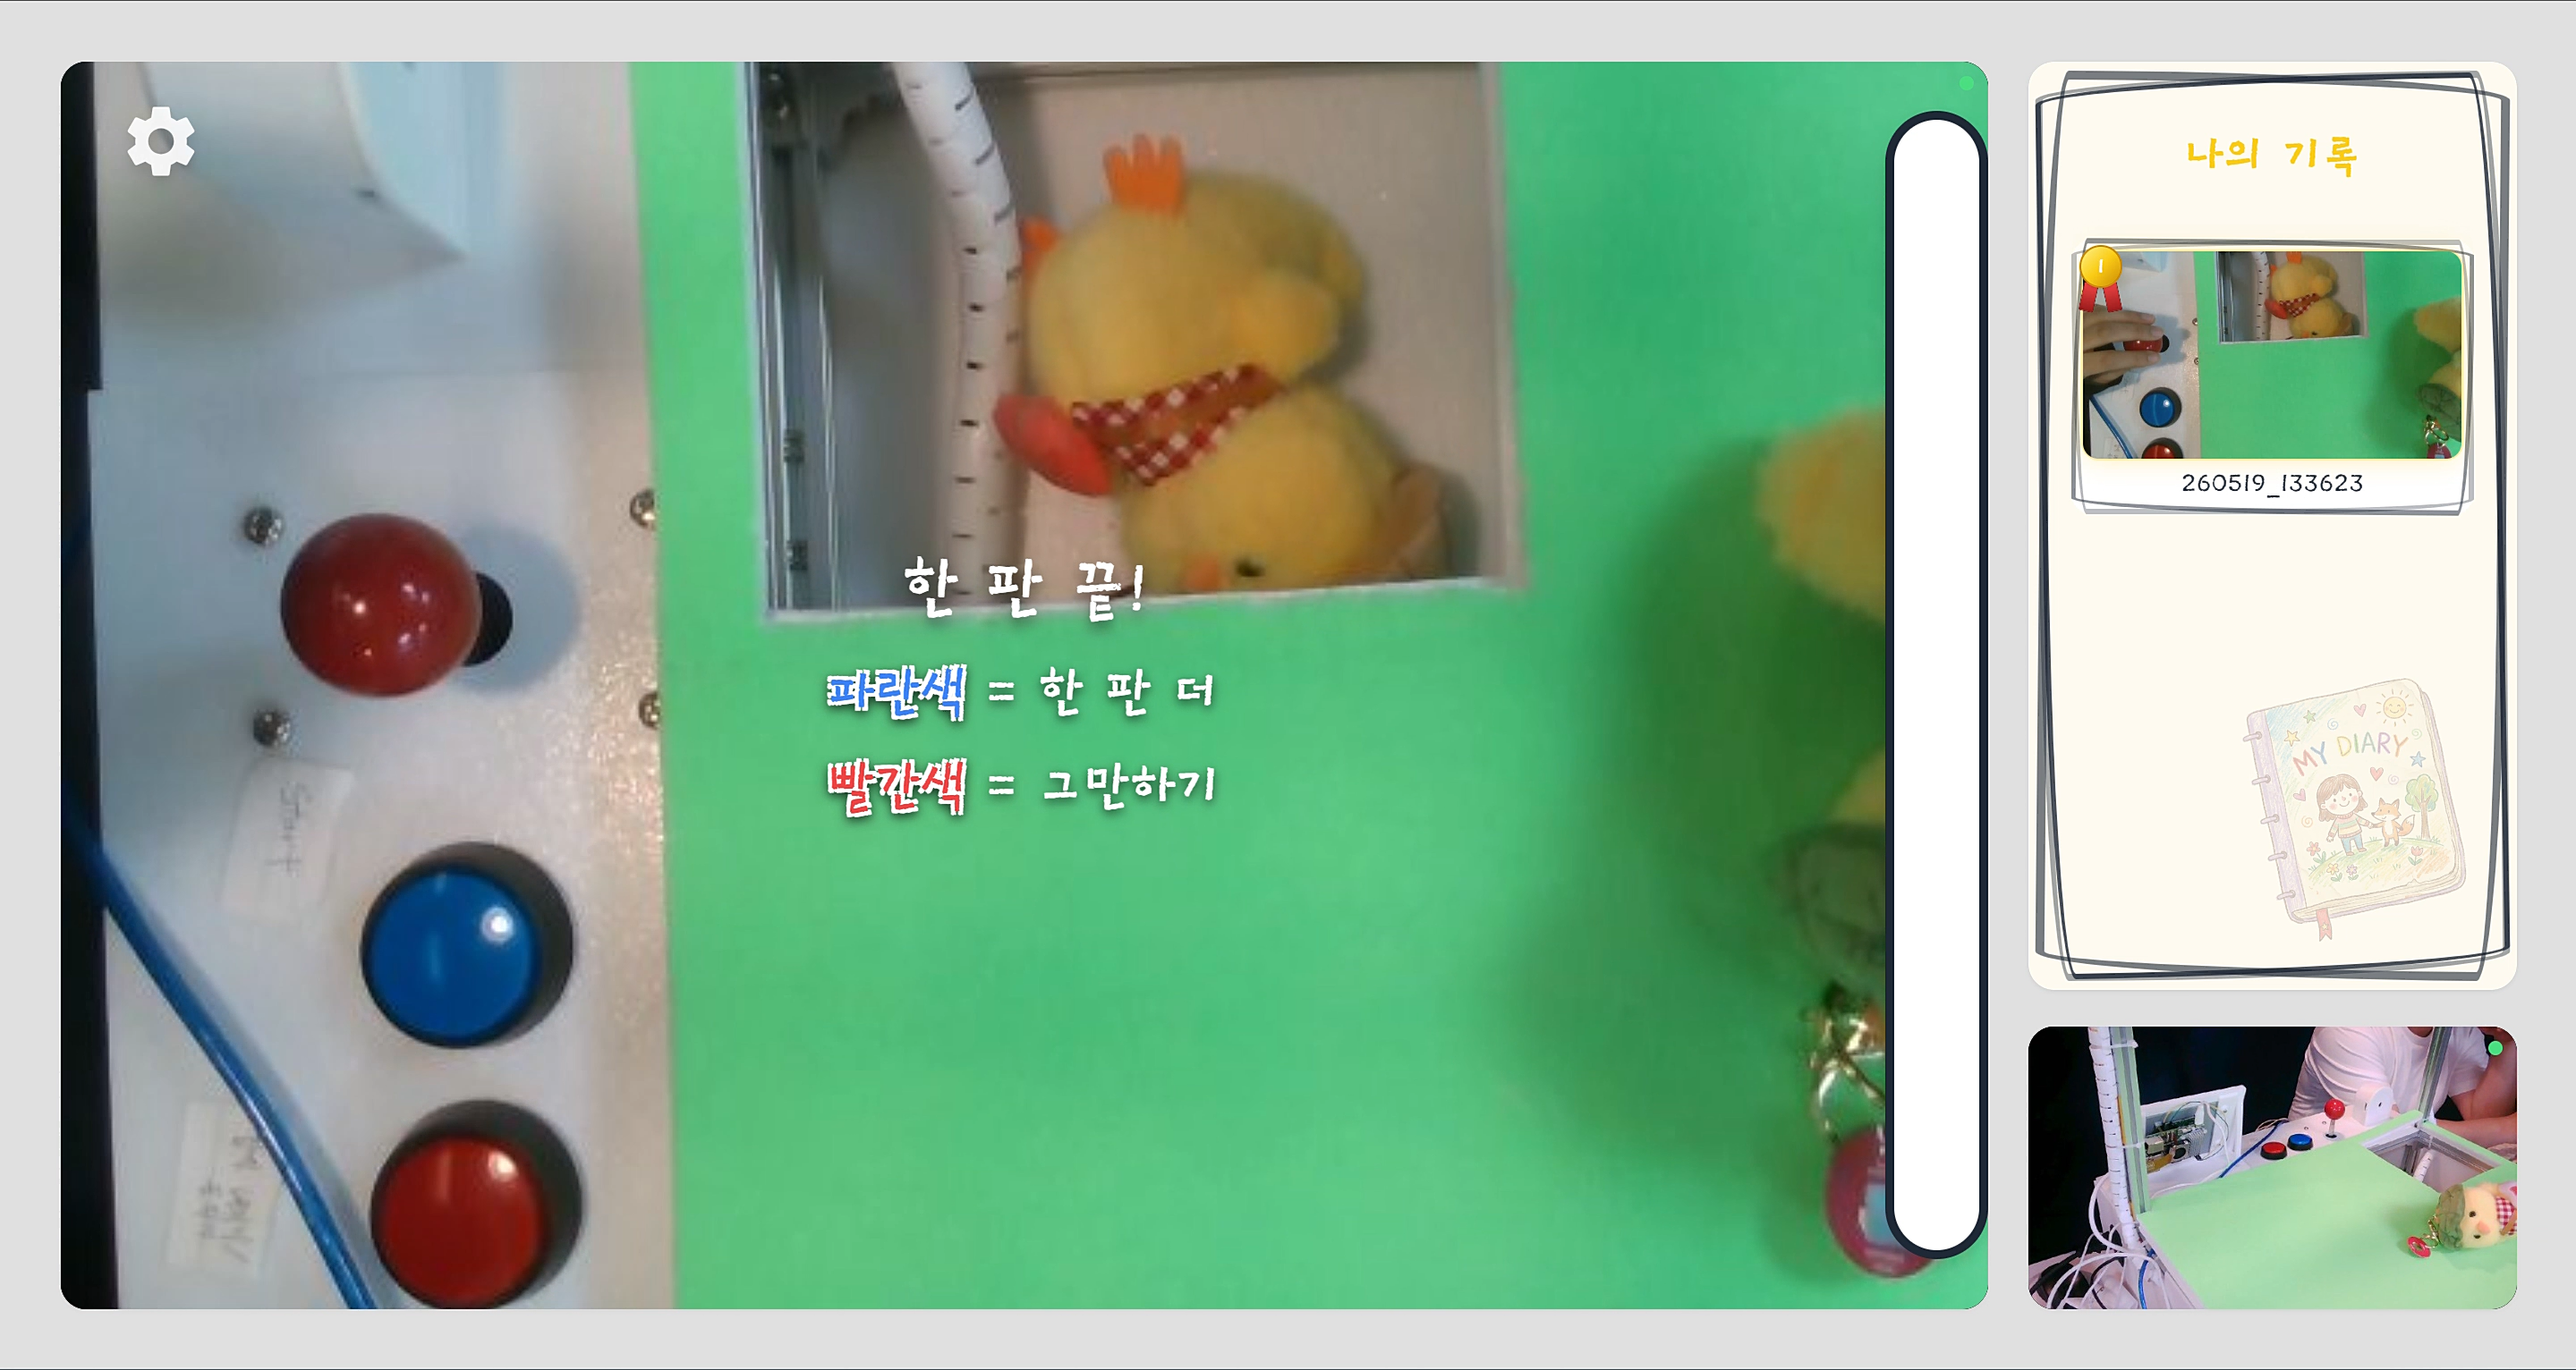
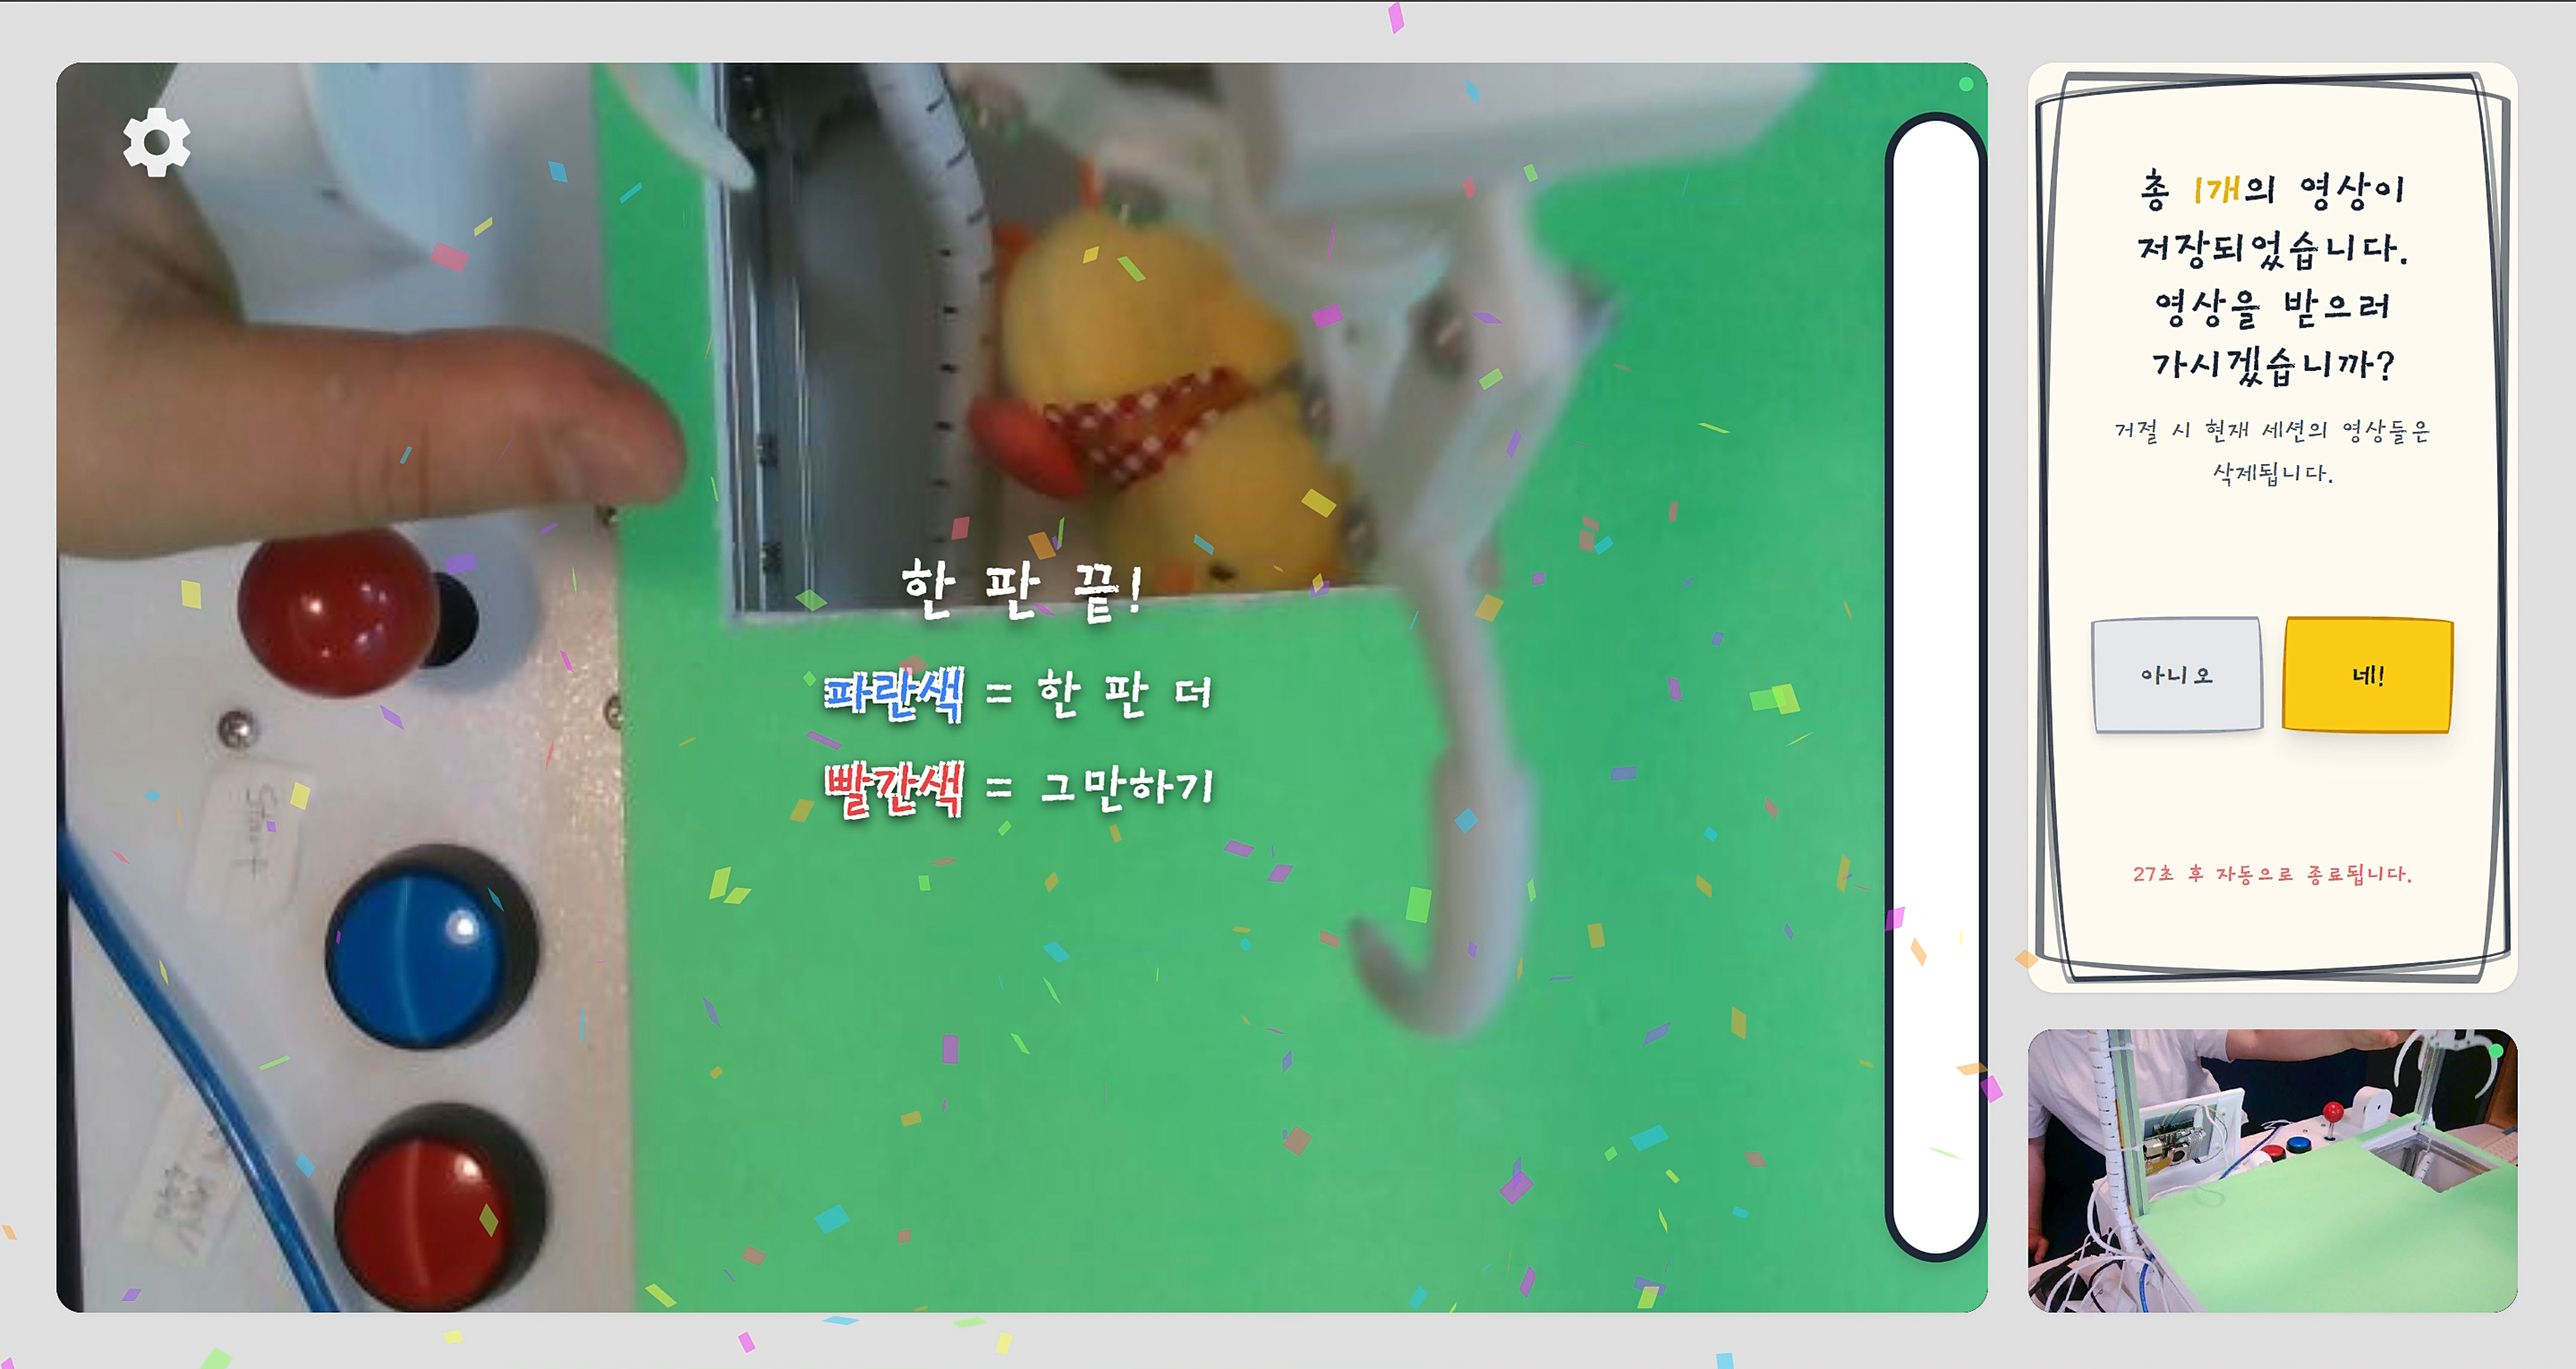
docs: update guide slides content and related image assets
- 불필요 단계 제거 및 번호 재정렬
- 가이드 문구 업데이트
- 가이드 이미지 에셋 교체 (guide-6, guide-7, guide-8)
- 미사용 가이드 이미지 삭제 (guide-9)

- Reorganize guide slide steps and renumber sequence
- Update user-facing guide copy
- Replace guide image assets (guide-6, guide-7, guide-8)
- Remove unused guide image (guide-9)

diff --git a/frontend/src/components/home/guide/guideSlides.tsx b/frontend/src/components/home/guide/guideSlides.tsx
@@ -70,15 +70,6 @@ export const guideSlides: GuideSlide[] = [
   },
   {
     step: '6',
-    title: '나의 기록',
-    description: (
-      <>
-        <span className="font-black text-red-500">선택한 판의 수</span>까지만 영상 저장     
-      </>
-    ),
-  },
-  {
-    step: '7',
     title: '뽑기 완료',
     description: (
       <>
@@ -91,7 +82,7 @@ export const guideSlides: GuideSlide[] = [
     ),
   },
   {
-    step: '8',
+    step: '7',
     title: 'QR 코드 생성',
     description: (
       <>
@@ -104,13 +95,13 @@ export const guideSlides: GuideSlide[] = [
     ),
   },
   {
-    step: '9',
+    step: '8',
     title: '다운로드',
     description: (
       <>
         휴대폰 카메라로 스캔 시
         <br></br>
-        지금까지 저장된 영상 확인
+        지금까지 저장된 영상 다운로드
         <br></br>
         <span className="font-black text-red-500">선택한 판의 수</span>까지만 저장
       </>
